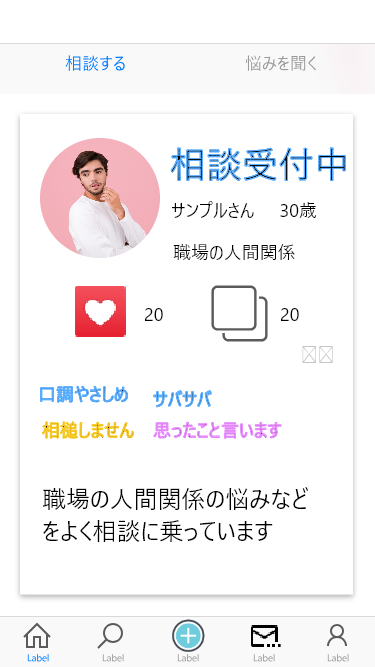
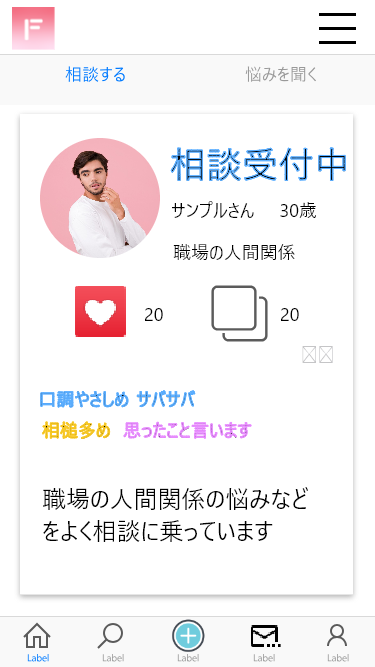
アイコン追加

diff --git a/app/assets/stylesheets/main.css b/app/assets/stylesheets/main.css
@@ -314,7 +314,7 @@ ul li {
 	Banner
 -------------------------------------------------------------------------------*/
 .banner {
-	background-color: #3b3be8;
+	background-color:#FEEEED;
 	min-height: 750px;
 }
 .banner-text {
@@ -323,7 +323,7 @@ ul li {
 
 }
 .banner-text h1 {
-	color: #fff;
+	color: #000;
 	font-family: "Roboto", sans-serif;
 	font-weight: 100;
 	line-height: 48px;
@@ -333,7 +333,7 @@ ul li {
 	font-weight: 300;
 }
 .banner-text p {
-	color: #fff;
+	color: #000;
 	font-size: 16px;
 	font-weight: 300;
 	line-height: 24px;
@@ -373,7 +373,7 @@ ul li {
 	Feature 1
 -------------------------------------------------------------------------------*/
 .features1 {
-	background-color:#f2f2f2;
+	background-color:#fff;
 }
 .left {
 	text-align:right;
@@ -449,7 +449,7 @@ ul li {
 -------------------------------------------------------------------------------*/
 
 	.overlay {
-	background-color: rgba(60, 57, 162, 0.9);
+	background-color: #FEEEED;
 	height: 100%;
 	left: 0;
 	position: absolute;
@@ -471,7 +471,7 @@ ul li {
 }
 .subscribe h2 {
 	margin-top: 0;
-	color: #fff;
+	color: #000;
 	letter-spacing:2px;
 }
 .subscribe span {
@@ -481,12 +481,12 @@ ul li {
 	margin-bottom: 30px;
 	font-size:24px;
 	font-weight:100;
-	color: #fff;
+	color: #000;
 	letter-spacing:1px;
 }
 .subscribe p {
 	margin:5% 10% 7% 10%;
-	color: #fff;
+	color: #000;
 	font-size:14px;
 	line-height:21px;
 	font-weight: 300;
